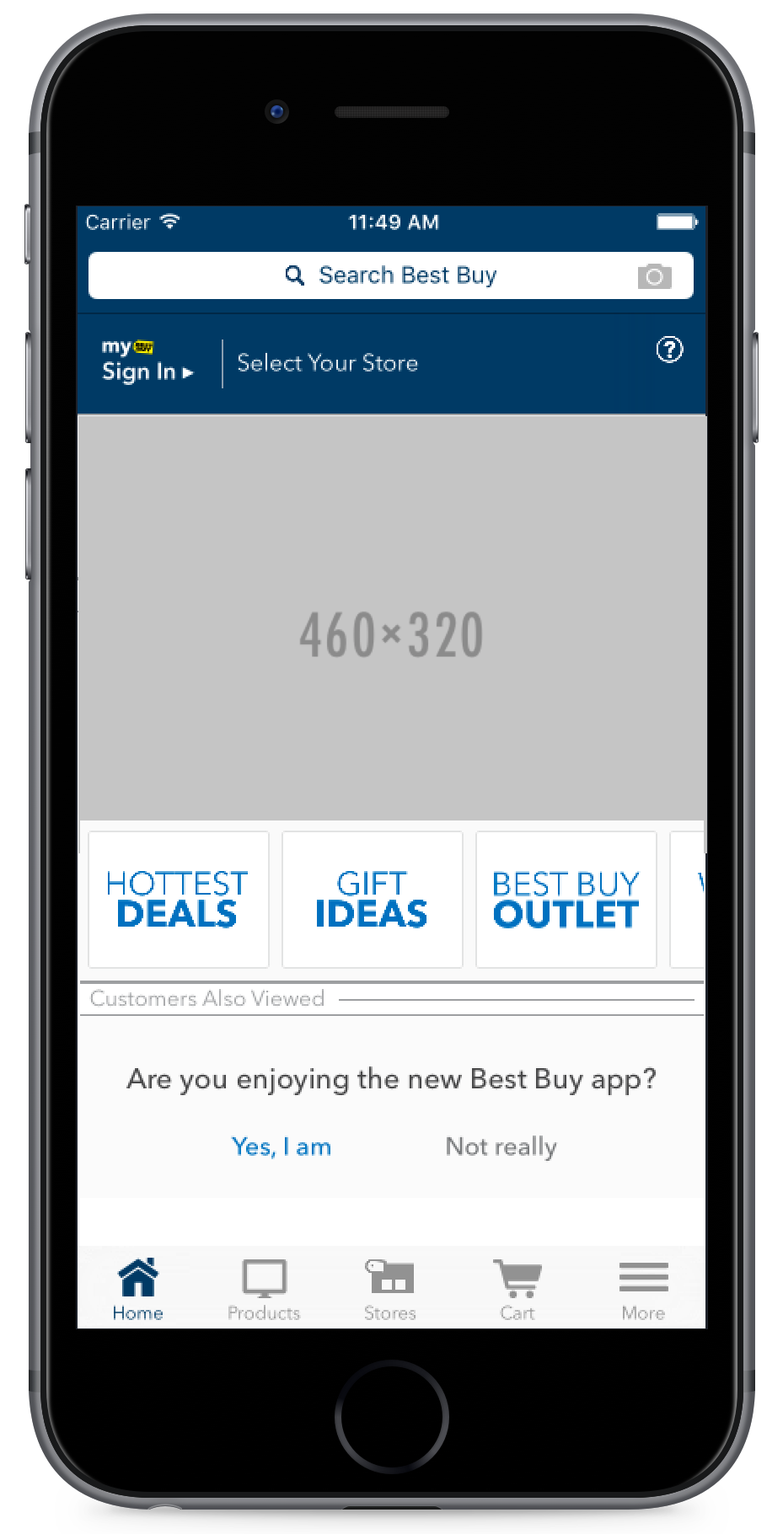
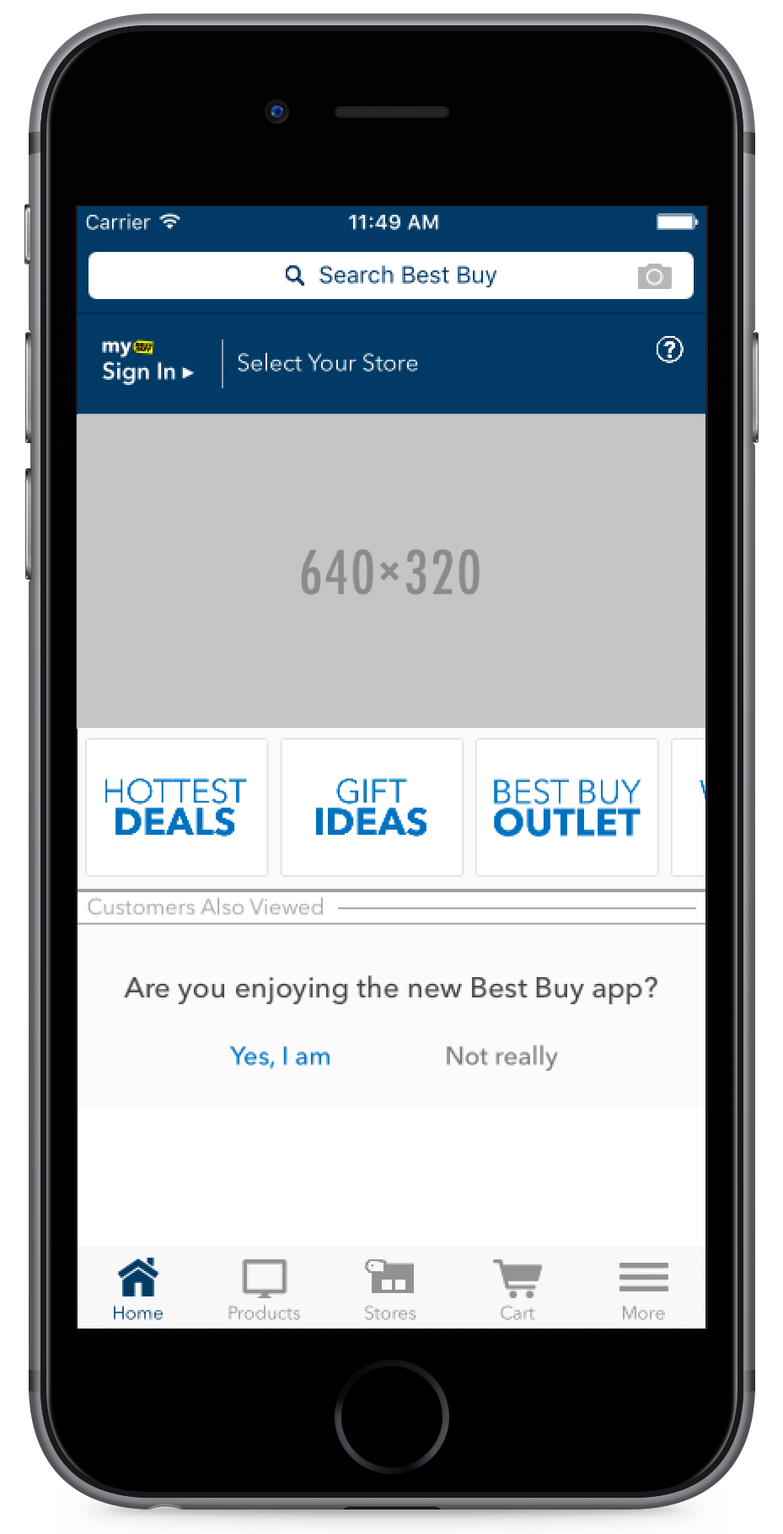
updates iPhone image

diff --git a/build/unbundled/service-worker.js b/build/unbundled/service-worker.js
@@ -29,7 +29,7 @@
 
 
 /* eslint-disable quotes, comma-spacing */
-var PrecacheConfig = [["/bower_components/app-datepicker/app-datepicker-animations.html","1f0abdd26daa9a31761a4dc297bc9325"],["/bower_components/app-datepicker/app-datepicker-dialog.html","1ee2b16d4229012a0d1ed814065157b1"],["/bower_components/app-datepicker/app-datepicker-icons.html","9cf0f2ef6c1266632fae718fede12ae3"],["/bower_components/app-datepicker/app-datepicker.html","61c16c798cd7ab5ba3ee446267fdfded"],["/bower_components/app-layout/app-drawer-layout/app-drawer-layout.html","a7474857c8dd25d6a9e5aabe763ec01f"],["/bower_components/app-layout/app-drawer/app-drawer.html","3949fa70e3797c54269a4abf7f361180"],["/bower_components/app-layout/app-header-layout/app-header-layout.html","180db0000b27f96610bf1a8de988a3ab"],["/bower_components/app-layout/app-header/app-header.html","e4a8a8d2985df42fad5c12ccd241e0c8"],["/bower_components/app-layout/app-scroll-effects/app-scroll-effects-behavior.html","6f59d3f5116eca983a1a375b77ad0fb5"],["/bower_components/app-layout/app-scroll-effects/app-scroll-effects.html","1eaa9e05144414be49e4ee23e16ceca2"],["/bower_components/app-layout/app-scroll-effects/effects/blend-background.html","4723ce7f6429640a812ad866ddddb719"],["/bower_components/app-layout/app-scroll-effects/effects/fade-background.html","3929482c600a21680def557965850501"],["/bower_components/app-layout/app-scroll-effects/effects/material.html","271fe6e745f1a9581a6e01cb3aadce21"],["/bower_components/app-layout/app-scroll-effects/effects/parallax-background.html","391d025dcffee3f042c9d2bdd83be377"],["/bower_components/app-layout/app-scroll-effects/effects/resize-snapped-title.html","fad90269cea2f83e1f4df1950bb2b053"],["/bower_components/app-layout/app-scroll-effects/effects/resize-title.html","1b99a57f871235783db6dfb812d7f3e0"],["/bower_components/app-layout/app-scroll-effects/effects/waterfall.html","6cbd757de769cd5af213aaebb8780745"],["/bower_components/app-layout/app-toolbar/app-toolbar.html","bde0a79d3265bef565ee86c699b6bbae"],["/bower_components/app-layout/helpers/helpers.html","95b52c0c05f77b65bc1b5dc0715d2495"],["/bower_components/app-route/app-location.html","52b3d8b5ecbb838b41bd9bd0ae556cca"],["/bower_components/app-route/app-route-converter-behavior.html","0e5b36ae9988a88bb30729fdb99a5d94"],["/bower_components/app-route/app-route.html","624ca199d36389f3db04597a593548ec"],["/bower_components/backend-template/backend-category.html","98cf887df73202e80d573f074ec5c1e7"],["/bower_components/backend-template/backend-page.html","aa3685500a50d5f2269d818ec6fe6033"],["/bower_components/backend-template/backend-template.html","e4eca2ee53db35d7e6ba6936be37f5f7"],["/bower_components/compound-timepicker/compound-timepicker-dialog.html","e85f672a8544da6e3858cca6cab9348e"],["/bower_components/compound-timepicker/compound-timepicker.html","4abe89b8e314ee09e70a4dc8e60d7976"],["/bower_components/file-upload/file-upload-icons.html","e40f58409458e58c234a617d623fcb19"],["/bower_components/file-upload/file-upload.html","c1941835c3e773fc02d50fe9a63644b8"],["/bower_components/font-roboto/roboto.html","09500fd5adfad056ff5aa05e2aae0ec5"],["/bower_components/iron-a11y-announcer/iron-a11y-announcer.html","a3bd031e39dde38cb8e619f670ee50f7"],["/bower_components/iron-a11y-keys-behavior/iron-a11y-keys-behavior.html","b9a8e766d0ab03a5d13e275754ec3d54"],["/bower_components/iron-behaviors/iron-button-state.html","6565a80d1af09299c1201f8286849c3b"],["/bower_components/iron-behaviors/iron-control-state.html","1c12ee539b1dbbd0957ae26b3549cc13"],["/bower_components/iron-collapse/iron-collapse.html","d545931441cea02435a0be9b5294d24a"],["/bower_components/iron-fit-behavior/iron-fit-behavior.html","8d3799ca2f619ed4f31261bb03284671"],["/bower_components/iron-flex-layout/classes/iron-flex-layout.html","97fcf4e52b1c44a78f360d436bd4e1e0"],["/bower_components/iron-flex-layout/classes/iron-shadow-flex-layout.html","8d36ab2f6e4b1d1373be99ac0f3a4980"],["/bower_components/iron-flex-layout/iron-flex-layout-classes.html","90471c0acb830c41b01e02a2507bed3c"],["/bower_components/iron-flex-layout/iron-flex-layout.html","3987521c615734e4fe403f9acecfea54"],["/bower_components/iron-form-element-behavior/iron-form-element-behavior.html","a64177311979fc6a6aae454cb85ea2be"],["/bower_components/iron-icon/iron-icon.html","5da6bac1d18d267691395cdc75820761"],["/bower_components/iron-icons/iron-icons.html","a900ff443dabefcbb77cf7ac7160ff24"],["/bower_components/iron-iconset-svg/iron-iconset-svg.html","8fb45b1b4668dae069f5efb5004c2af4"],["/bower_components/iron-image/iron-image.html","72175f3ce2bc8e6bf3436ab8749b470e"],["/bower_components/iron-input/iron-input.html","3e393eda6c241be2817ce0acc512bcf6"],["/bower_components/iron-list/iron-list.html","c73b17b7af787475d4e3f564e6aa789c"],["/bower_components/iron-location/iron-location.html","b999e8754a2e8fdde266884e47cefa04"],["/bower_components/iron-location/iron-query-params.html","065a00285a46f8483c74e363945499c9"],["/bower_components/iron-media-query/iron-media-query.html","7436f9608ebd2d31e4b346921651f84b"],["/bower_components/iron-menu-behavior/iron-menu-behavior.html","ebd9e4f4121fe7691f20f0656cb24e5d"],["/bower_components/iron-menu-behavior/iron-menubar-behavior.html","a0cc6674fc6d9d7ba0b68ff680b4e56b"],["/bower_components/iron-meta/iron-meta.html","dd4ef14e09c5771e70292d70963f6718"],["/bower_components/iron-overlay-behavior/iron-overlay-backdrop.html","a6568ac2408a26e2dd2098821adbbbfa"],["/bower_components/iron-overlay-behavior/iron-overlay-behavior.html","5fbe9a3df3528b2e36ad58f8586e7c69"],["/bower_components/iron-overlay-behavior/iron-overlay-manager.html","7c86727e4267f15e730526f318b40da1"],["/bower_components/iron-pages/iron-pages.html","5872a2ad58225c94b14ddea747f67cbd"],["/bower_components/iron-range-behavior/iron-range-behavior.html","34f5b83882b6b6c5cfad7543caab080e"],["/bower_components/iron-resizable-behavior/iron-resizable-behavior.html","e93449ccd4312e4e30060c87bd52ed25"],["/bower_components/iron-resizable/iron-resizable-behavior.html","e93449ccd4312e4e30060c87bd52ed25"],["/bower_components/iron-scroll-target-behavior/iron-scroll-target-behavior.html","0185cbe8d7139c9e92af3a9af67feb17"],["/bower_components/iron-selector/iron-multi-selectable.html","46d6620acd7bad986d81097d9ca91692"],["/bower_components/iron-selector/iron-selectable.html","65b04f3f5f1b551d91a82b36f916f6b6"],["/bower_components/iron-selector/iron-selection.html","83545b7d1eae4020594969e6b9790b65"],["/bower_components/iron-selector/iron-selector.html","4d2657550768bec0788eba5190cddc66"],["/bower_components/iron-swipeable-container/iron-swipeable-container.html","5452174bdb8145d92024a2e12dc01c37"],["/bower_components/iron-validatable-behavior/iron-validatable-behavior.html","02bf0434cc1a0d09e18413dea91dcea1"],["/bower_components/moment-element/moment-import.html","98829c155df5231fda830977c1cf7b66"],["/bower_components/moment/min/moment.min.js","9f556edfb6f51d57807c6ff4e07d4d78"],["/bower_components/neon-animation/animations/fade-in-animation.html","b814c818dbcffe2bb50563e1406497df"],["/bower_components/neon-animation/animations/fade-out-animation.html","44988226230af0e6d92f0988fc8688e2"],["/bower_components/neon-animation/animations/opaque-animation.html","8e2f63bbc648796f3ed96834a5553d07"],["/bower_components/neon-animation/animations/slide-down-animation.html","31286bfe0b2cb6f28ef5e1f9d181f641"],["/bower_components/neon-animation/animations/slide-from-bottom-animation.html","12eea18013bf5b89c642fde725469a62"],["/bower_components/neon-animation/animations/slide-from-left-animation.html","cb18058340412077b0b0a8a7228a79a6"],["/bower_components/neon-animation/animations/slide-from-right-animation.html","79f28e3d4580cef016e6ae8c63384e98"],["/bower_components/neon-animation/animations/slide-left-animation.html","a44c677c010daf7872b77f53bcd86e58"],["/bower_components/neon-animation/animations/slide-right-animation.html","b9908b67414ba0dfc7442eb1207d05fc"],["/bower_components/neon-animation/neon-animatable-behavior.html","270f52231303cae4cb8e3fadb5a805c1"],["/bower_components/neon-animation/neon-animatable.html","a0ca09f4fb19c4c83a2e501f666aa9b7"],["/bower_components/neon-animation/neon-animated-pages.html","8bb61cb8467f755163cec87e954425fc"],["/bower_components/neon-animation/neon-animation-behavior.html","eb1cdd9cd9d780a811fd25e882ba1f8e"],["/bower_components/neon-animation/neon-animation-runner-behavior.html","782cac67e6cb5661d36fb32d9129ff03"],["/bower_components/neon-animation/web-animations.html","b310811179297697d51eac3659df7776"],["/bower_components/neon-slideshow/neon-pages-shared-styles.html","8abae31651f17721ec357fd7cd4f24f7"],["/bower_components/neon-slideshow/neon-slideshow-pages-behavior.html","1d7d412e5edd90f9deea9f6f94a181f6"],["/bower_components/paper-behaviors/paper-button-behavior.html","edddd3f97cf3ea944f3a48b4154939e8"],["/bower_components/paper-behaviors/paper-inky-focus-behavior.html","51a1c5ccd2aae4c1a0258680dcb3e1ea"],["/bower_components/paper-behaviors/paper-ripple-behavior.html","b6ee8dd59ffb46ca57e81311abd2eca0"],["/bower_components/paper-bottom-sheet/paper-bottom-sheet-item.html","e711b25cef7a8c6c9cd3d3afa37b3aeb"],["/bower_components/paper-bottom-sheet/paper-bottom-sheet.html","eed367761b5bb706041166ccf244529f"],["/bower_components/paper-button/paper-button.html","3f061a077ee938fac479622156071296"],["/bower_components/paper-card/paper-card.html","c057c1a99e521f817eab9af733ce2471"],["/bower_components/paper-date-picker-item/paper-date-picker-behaviors.html","a8af435cf69d4eb08e461a0dfc9fa2e0"],["/bower_components/paper-date-picker-item/paper-date-picker-edit-dialog.html","a6ebb8f7032ebfbfdb3a6aaefd2fb8c5"],["/bower_components/paper-date-picker-item/paper-date-picker-item.html","28de117b275f571b648601bfe74924d2"],["/bower_components/paper-date-picker-item/paper-datetime-picker-item.html","b70431ed567daaf09d4e015965cc8dc5"],["/bower_components/paper-date-picker-item/paper-time-picker-edit-dialog.html","efee2f8dcc37736698905293ee9d22e3"],["/bower_components/paper-date-picker/paper-calendar.html","606e025081a64e1edaf7ab77a05cffe1"],["/bower_components/paper-date-picker/paper-date-picker-dialog-style.html","aae7be1be96eb1ca616491ad3a5fd759"],["/bower_components/paper-date-picker/paper-date-picker.html","3988a155ffb5ddb97d0acb11425eba7f"],["/bower_components/paper-dialog-behavior/paper-dialog-behavior.html","b9cf5384b29cd12a724965080916b6f1"],["/bower_components/paper-dialog-behavior/paper-dialog-shared-styles.html","8fb5282b6149bc429b6baef5c077a285"],["/bower_components/paper-dialog/paper-dialog.html","7a8d86ed89c215baf8cc42e4d7335271"],["/bower_components/paper-drawer-panel/paper-drawer-panel.html","b897a21291bab89dff00486eb4cc44f6"],["/bower_components/paper-header-panel/paper-header-panel.html","b883923e580ff87f152f354358fc324b"],["/bower_components/paper-icon-button/paper-icon-button.html","2a75de00f858ae1e894ab21344464787"],["/bower_components/paper-input/paper-input-addon-behavior.html","de7b482dc1fb01847efba9016db16206"],["/bower_components/paper-input/paper-input-behavior.html","3960579058d3ba0a74ae7b67b78f53c2"],["/bower_components/paper-input/paper-input-char-counter.html","94c2003f281325951e3bf5b927a326bb"],["/bower_components/paper-input/paper-input-container.html","e3c61b8a6e35b134c99c09381ef48067"],["/bower_components/paper-input/paper-input-error.html","b90f3a86d797f1bdbbb4d158aeae06ab"],["/bower_components/paper-input/paper-input.html","3385511052db3467ca6ec155faa619ad"],["/bower_components/paper-item/paper-icon-item.html","17d1540072712073af1a84ae9b0ba06a"],["/bower_components/paper-item/paper-item-behavior.html","82636a7562fd8b0be5b15646ee461588"],["/bower_components/paper-item/paper-item-body.html","8b91d21da1ac0ab23442d05b4e377286"],["/bower_components/paper-item/paper-item-shared-styles.html","31466267014182098267f1b9303f656e"],["/bower_components/paper-item/paper-item.html","e614731572c425b144aa8a9da24ee3ea"],["/bower_components/paper-material/paper-material-shared-styles.html","d0eeeb696e55702f3a38ef1ad0058f59"],["/bower_components/paper-material/paper-material.html","47301784c93c3d9989abfbab68ec9859"],["/bower_components/paper-menu/paper-menu-shared-styles.html","9b2ae6e8b26011a37194ea3b4bdd043d"],["/bower_components/paper-menu/paper-menu.html","5270d7b4b603d9fdfcfdb079c750a3cd"],["/bower_components/paper-menu/paper-submenu.html","e837f00972a52c4ecda76bcb62392ec7"],["/bower_components/paper-progress/paper-progress.html","5dd0b9f89efdfd4f3cce0a13bd67fe6f"],["/bower_components/paper-ripple/paper-ripple.html","e22bc21b61184cb28125d16f9d80fb59"],["/bower_components/paper-scroll-header-panel/paper-scroll-header-panel.html","24210b806838797844a91a0b83771bbe"],["/bower_components/paper-styles/classes/shadow.html","6b17a7d4dcc74249b7954d4c9d1d6bc4"],["/bower_components/paper-styles/color.html","430305db311431da78c0a6e1236f9ebe"],["/bower_components/paper-styles/default-theme.html","c910188e898624eb890898418de20ee0"],["/bower_components/paper-styles/paper-styles.html","3fd71f69f3adc823ef9c03611d296cfc"],["/bower_components/paper-styles/shadow.html","7fd97f2613eb356e1bb901e37c3e8980"],["/bower_components/paper-styles/typography.html","bdd7f31bb85f116ce97061c4135b74c9"],["/bower_components/paper-tabs/paper-tab.html","9a063ee5fdf20435ec7229056cdb27c6"],["/bower_components/paper-tabs/paper-tabs-icons.html","9fb57777c667562392afe684d85ddbe2"],["/bower_components/paper-tabs/paper-tabs.html","e0f46d0e6238334cc2d3da093e9672fc"],["/bower_components/paper-time-picker/paper-clock-selector.html","46cdc7df9c947486970452ba975d0a01"],["/bower_components/paper-time-picker/paper-time-picker-dialog-style.html","edb5821bf61ae671b9b7b92728dd63cc"],["/bower_components/paper-time-picker/paper-time-picker.html","b20135a5e6b6eecbb8c17b8e6ce401d7"],["/bower_components/paper-toast/paper-toast.html","f64d10724104f3751cae8b764aef56ff"],["/bower_components/paper-toolbar/paper-toolbar.html","ff99e4e6d522685e7e4d04f290e8ac9b"],["/bower_components/polymer/polymer-micro.html","7739e37db5581472b91925e5fa9bde55"],["/bower_components/polymer/polymer-mini.html","9e9dfb157eae29a59c98343288d4d120"],["/bower_components/polymer/polymer.html","2dce719d53b7ea549067d3d21a2b2c29"],["/bower_components/web-animations-js/web-animations-next-lite.min.js","04197e2ccec914fa460eef2ac140c853"],["/bower_components/webcomponentsjs/webcomponents-lite.min.js","f04ed23700daeb36f637bfe095960659"],["/index.html","4212c3bb78c86f5e84c468891aa1d737"],["/manifest.json","2eefc15db4b58758cddc0d666e27d399"],["/src/my-app.html","d6ec0ab348f03ee7f929e5ef11010c20"],["/src/my-icons.html","9a411b8d3e90395136d13d55e72fd88c"],["/src/my-view1.html","089a2a2879873136890869fe96826408"],["/src/my-view2.html","16f82b003eabd9c9424391b9d75d17f9"],["/src/my-view3.html","74bb1fd52df3785b6dd81a3c5343bb41"],["/src/my-view404.html","c0193cc44fd7bde68deda31d231845a8"],["/src/shared-styles.html","749d90961ca5e725941fc8e97ee10ce6"]];
+var PrecacheConfig = [["/bower_components/app-datepicker/app-datepicker-animations.html","1f0abdd26daa9a31761a4dc297bc9325"],["/bower_components/app-datepicker/app-datepicker-dialog.html","1ee2b16d4229012a0d1ed814065157b1"],["/bower_components/app-datepicker/app-datepicker-icons.html","9cf0f2ef6c1266632fae718fede12ae3"],["/bower_components/app-datepicker/app-datepicker.html","61c16c798cd7ab5ba3ee446267fdfded"],["/bower_components/app-layout/app-drawer-layout/app-drawer-layout.html","a7474857c8dd25d6a9e5aabe763ec01f"],["/bower_components/app-layout/app-drawer/app-drawer.html","3949fa70e3797c54269a4abf7f361180"],["/bower_components/app-layout/app-header-layout/app-header-layout.html","180db0000b27f96610bf1a8de988a3ab"],["/bower_components/app-layout/app-header/app-header.html","e4a8a8d2985df42fad5c12ccd241e0c8"],["/bower_components/app-layout/app-scroll-effects/app-scroll-effects-behavior.html","6f59d3f5116eca983a1a375b77ad0fb5"],["/bower_components/app-layout/app-scroll-effects/app-scroll-effects.html","1eaa9e05144414be49e4ee23e16ceca2"],["/bower_components/app-layout/app-scroll-effects/effects/blend-background.html","4723ce7f6429640a812ad866ddddb719"],["/bower_components/app-layout/app-scroll-effects/effects/fade-background.html","3929482c600a21680def557965850501"],["/bower_components/app-layout/app-scroll-effects/effects/material.html","271fe6e745f1a9581a6e01cb3aadce21"],["/bower_components/app-layout/app-scroll-effects/effects/parallax-background.html","391d025dcffee3f042c9d2bdd83be377"],["/bower_components/app-layout/app-scroll-effects/effects/resize-snapped-title.html","fad90269cea2f83e1f4df1950bb2b053"],["/bower_components/app-layout/app-scroll-effects/effects/resize-title.html","1b99a57f871235783db6dfb812d7f3e0"],["/bower_components/app-layout/app-scroll-effects/effects/waterfall.html","6cbd757de769cd5af213aaebb8780745"],["/bower_components/app-layout/app-toolbar/app-toolbar.html","bde0a79d3265bef565ee86c699b6bbae"],["/bower_components/app-layout/helpers/helpers.html","95b52c0c05f77b65bc1b5dc0715d2495"],["/bower_components/app-route/app-location.html","52b3d8b5ecbb838b41bd9bd0ae556cca"],["/bower_components/app-route/app-route-converter-behavior.html","0e5b36ae9988a88bb30729fdb99a5d94"],["/bower_components/app-route/app-route.html","624ca199d36389f3db04597a593548ec"],["/bower_components/backend-template/backend-category.html","98cf887df73202e80d573f074ec5c1e7"],["/bower_components/backend-template/backend-page.html","aa3685500a50d5f2269d818ec6fe6033"],["/bower_components/backend-template/backend-template.html","e4eca2ee53db35d7e6ba6936be37f5f7"],["/bower_components/compound-timepicker/compound-timepicker-dialog.html","e85f672a8544da6e3858cca6cab9348e"],["/bower_components/compound-timepicker/compound-timepicker.html","4abe89b8e314ee09e70a4dc8e60d7976"],["/bower_components/file-upload/file-upload-icons.html","e40f58409458e58c234a617d623fcb19"],["/bower_components/file-upload/file-upload.html","c1941835c3e773fc02d50fe9a63644b8"],["/bower_components/font-roboto/roboto.html","09500fd5adfad056ff5aa05e2aae0ec5"],["/bower_components/iron-a11y-announcer/iron-a11y-announcer.html","a3bd031e39dde38cb8e619f670ee50f7"],["/bower_components/iron-a11y-keys-behavior/iron-a11y-keys-behavior.html","b9a8e766d0ab03a5d13e275754ec3d54"],["/bower_components/iron-behaviors/iron-button-state.html","6565a80d1af09299c1201f8286849c3b"],["/bower_components/iron-behaviors/iron-control-state.html","1c12ee539b1dbbd0957ae26b3549cc13"],["/bower_components/iron-collapse/iron-collapse.html","d545931441cea02435a0be9b5294d24a"],["/bower_components/iron-fit-behavior/iron-fit-behavior.html","8d3799ca2f619ed4f31261bb03284671"],["/bower_components/iron-flex-layout/classes/iron-flex-layout.html","97fcf4e52b1c44a78f360d436bd4e1e0"],["/bower_components/iron-flex-layout/classes/iron-shadow-flex-layout.html","8d36ab2f6e4b1d1373be99ac0f3a4980"],["/bower_components/iron-flex-layout/iron-flex-layout-classes.html","90471c0acb830c41b01e02a2507bed3c"],["/bower_components/iron-flex-layout/iron-flex-layout.html","3987521c615734e4fe403f9acecfea54"],["/bower_components/iron-form-element-behavior/iron-form-element-behavior.html","a64177311979fc6a6aae454cb85ea2be"],["/bower_components/iron-icon/iron-icon.html","5da6bac1d18d267691395cdc75820761"],["/bower_components/iron-icons/iron-icons.html","a900ff443dabefcbb77cf7ac7160ff24"],["/bower_components/iron-iconset-svg/iron-iconset-svg.html","8fb45b1b4668dae069f5efb5004c2af4"],["/bower_components/iron-image/iron-image.html","72175f3ce2bc8e6bf3436ab8749b470e"],["/bower_components/iron-input/iron-input.html","3e393eda6c241be2817ce0acc512bcf6"],["/bower_components/iron-list/iron-list.html","c73b17b7af787475d4e3f564e6aa789c"],["/bower_components/iron-location/iron-location.html","b999e8754a2e8fdde266884e47cefa04"],["/bower_components/iron-location/iron-query-params.html","065a00285a46f8483c74e363945499c9"],["/bower_components/iron-media-query/iron-media-query.html","7436f9608ebd2d31e4b346921651f84b"],["/bower_components/iron-menu-behavior/iron-menu-behavior.html","ebd9e4f4121fe7691f20f0656cb24e5d"],["/bower_components/iron-menu-behavior/iron-menubar-behavior.html","a0cc6674fc6d9d7ba0b68ff680b4e56b"],["/bower_components/iron-meta/iron-meta.html","dd4ef14e09c5771e70292d70963f6718"],["/bower_components/iron-overlay-behavior/iron-overlay-backdrop.html","a6568ac2408a26e2dd2098821adbbbfa"],["/bower_components/iron-overlay-behavior/iron-overlay-behavior.html","5fbe9a3df3528b2e36ad58f8586e7c69"],["/bower_components/iron-overlay-behavior/iron-overlay-manager.html","7c86727e4267f15e730526f318b40da1"],["/bower_components/iron-pages/iron-pages.html","5872a2ad58225c94b14ddea747f67cbd"],["/bower_components/iron-range-behavior/iron-range-behavior.html","34f5b83882b6b6c5cfad7543caab080e"],["/bower_components/iron-resizable-behavior/iron-resizable-behavior.html","e93449ccd4312e4e30060c87bd52ed25"],["/bower_components/iron-resizable/iron-resizable-behavior.html","e93449ccd4312e4e30060c87bd52ed25"],["/bower_components/iron-scroll-target-behavior/iron-scroll-target-behavior.html","0185cbe8d7139c9e92af3a9af67feb17"],["/bower_components/iron-selector/iron-multi-selectable.html","46d6620acd7bad986d81097d9ca91692"],["/bower_components/iron-selector/iron-selectable.html","65b04f3f5f1b551d91a82b36f916f6b6"],["/bower_components/iron-selector/iron-selection.html","83545b7d1eae4020594969e6b9790b65"],["/bower_components/iron-selector/iron-selector.html","4d2657550768bec0788eba5190cddc66"],["/bower_components/iron-swipeable-container/iron-swipeable-container.html","5452174bdb8145d92024a2e12dc01c37"],["/bower_components/iron-validatable-behavior/iron-validatable-behavior.html","02bf0434cc1a0d09e18413dea91dcea1"],["/bower_components/moment-element/moment-import.html","98829c155df5231fda830977c1cf7b66"],["/bower_components/moment/min/moment.min.js","9f556edfb6f51d57807c6ff4e07d4d78"],["/bower_components/neon-animation/animations/fade-in-animation.html","b814c818dbcffe2bb50563e1406497df"],["/bower_components/neon-animation/animations/fade-out-animation.html","44988226230af0e6d92f0988fc8688e2"],["/bower_components/neon-animation/animations/opaque-animation.html","8e2f63bbc648796f3ed96834a5553d07"],["/bower_components/neon-animation/animations/slide-down-animation.html","31286bfe0b2cb6f28ef5e1f9d181f641"],["/bower_components/neon-animation/animations/slide-from-bottom-animation.html","12eea18013bf5b89c642fde725469a62"],["/bower_components/neon-animation/animations/slide-from-left-animation.html","cb18058340412077b0b0a8a7228a79a6"],["/bower_components/neon-animation/animations/slide-from-right-animation.html","79f28e3d4580cef016e6ae8c63384e98"],["/bower_components/neon-animation/animations/slide-left-animation.html","a44c677c010daf7872b77f53bcd86e58"],["/bower_components/neon-animation/animations/slide-right-animation.html","b9908b67414ba0dfc7442eb1207d05fc"],["/bower_components/neon-animation/neon-animatable-behavior.html","270f52231303cae4cb8e3fadb5a805c1"],["/bower_components/neon-animation/neon-animatable.html","a0ca09f4fb19c4c83a2e501f666aa9b7"],["/bower_components/neon-animation/neon-animated-pages.html","8bb61cb8467f755163cec87e954425fc"],["/bower_components/neon-animation/neon-animation-behavior.html","eb1cdd9cd9d780a811fd25e882ba1f8e"],["/bower_components/neon-animation/neon-animation-runner-behavior.html","782cac67e6cb5661d36fb32d9129ff03"],["/bower_components/neon-animation/web-animations.html","b310811179297697d51eac3659df7776"],["/bower_components/neon-slideshow/neon-pages-shared-styles.html","8abae31651f17721ec357fd7cd4f24f7"],["/bower_components/neon-slideshow/neon-slideshow-pages-behavior.html","1d7d412e5edd90f9deea9f6f94a181f6"],["/bower_components/paper-behaviors/paper-button-behavior.html","edddd3f97cf3ea944f3a48b4154939e8"],["/bower_components/paper-behaviors/paper-inky-focus-behavior.html","51a1c5ccd2aae4c1a0258680dcb3e1ea"],["/bower_components/paper-behaviors/paper-ripple-behavior.html","b6ee8dd59ffb46ca57e81311abd2eca0"],["/bower_components/paper-bottom-sheet/paper-bottom-sheet-item.html","e711b25cef7a8c6c9cd3d3afa37b3aeb"],["/bower_components/paper-bottom-sheet/paper-bottom-sheet.html","eed367761b5bb706041166ccf244529f"],["/bower_components/paper-button/paper-button.html","3f061a077ee938fac479622156071296"],["/bower_components/paper-card/paper-card.html","c057c1a99e521f817eab9af733ce2471"],["/bower_components/paper-date-picker-item/paper-date-picker-behaviors.html","a8af435cf69d4eb08e461a0dfc9fa2e0"],["/bower_components/paper-date-picker-item/paper-date-picker-edit-dialog.html","a6ebb8f7032ebfbfdb3a6aaefd2fb8c5"],["/bower_components/paper-date-picker-item/paper-date-picker-item.html","28de117b275f571b648601bfe74924d2"],["/bower_components/paper-date-picker-item/paper-datetime-picker-item.html","b70431ed567daaf09d4e015965cc8dc5"],["/bower_components/paper-date-picker-item/paper-time-picker-edit-dialog.html","efee2f8dcc37736698905293ee9d22e3"],["/bower_components/paper-date-picker/paper-calendar.html","606e025081a64e1edaf7ab77a05cffe1"],["/bower_components/paper-date-picker/paper-date-picker-dialog-style.html","aae7be1be96eb1ca616491ad3a5fd759"],["/bower_components/paper-date-picker/paper-date-picker.html","3988a155ffb5ddb97d0acb11425eba7f"],["/bower_components/paper-dialog-behavior/paper-dialog-behavior.html","b9cf5384b29cd12a724965080916b6f1"],["/bower_components/paper-dialog-behavior/paper-dialog-shared-styles.html","8fb5282b6149bc429b6baef5c077a285"],["/bower_components/paper-dialog/paper-dialog.html","7a8d86ed89c215baf8cc42e4d7335271"],["/bower_components/paper-drawer-panel/paper-drawer-panel.html","b897a21291bab89dff00486eb4cc44f6"],["/bower_components/paper-header-panel/paper-header-panel.html","b883923e580ff87f152f354358fc324b"],["/bower_components/paper-icon-button/paper-icon-button.html","2a75de00f858ae1e894ab21344464787"],["/bower_components/paper-input/paper-input-addon-behavior.html","de7b482dc1fb01847efba9016db16206"],["/bower_components/paper-input/paper-input-behavior.html","3960579058d3ba0a74ae7b67b78f53c2"],["/bower_components/paper-input/paper-input-char-counter.html","94c2003f281325951e3bf5b927a326bb"],["/bower_components/paper-input/paper-input-container.html","e3c61b8a6e35b134c99c09381ef48067"],["/bower_components/paper-input/paper-input-error.html","b90f3a86d797f1bdbbb4d158aeae06ab"],["/bower_components/paper-input/paper-input.html","3385511052db3467ca6ec155faa619ad"],["/bower_components/paper-item/paper-icon-item.html","17d1540072712073af1a84ae9b0ba06a"],["/bower_components/paper-item/paper-item-behavior.html","82636a7562fd8b0be5b15646ee461588"],["/bower_components/paper-item/paper-item-body.html","8b91d21da1ac0ab23442d05b4e377286"],["/bower_components/paper-item/paper-item-shared-styles.html","31466267014182098267f1b9303f656e"],["/bower_components/paper-item/paper-item.html","e614731572c425b144aa8a9da24ee3ea"],["/bower_components/paper-material/paper-material-shared-styles.html","d0eeeb696e55702f3a38ef1ad0058f59"],["/bower_components/paper-material/paper-material.html","47301784c93c3d9989abfbab68ec9859"],["/bower_components/paper-menu/paper-menu-shared-styles.html","9b2ae6e8b26011a37194ea3b4bdd043d"],["/bower_components/paper-menu/paper-menu.html","5270d7b4b603d9fdfcfdb079c750a3cd"],["/bower_components/paper-menu/paper-submenu.html","e837f00972a52c4ecda76bcb62392ec7"],["/bower_components/paper-progress/paper-progress.html","5dd0b9f89efdfd4f3cce0a13bd67fe6f"],["/bower_components/paper-ripple/paper-ripple.html","e22bc21b61184cb28125d16f9d80fb59"],["/bower_components/paper-scroll-header-panel/paper-scroll-header-panel.html","24210b806838797844a91a0b83771bbe"],["/bower_components/paper-styles/classes/shadow.html","6b17a7d4dcc74249b7954d4c9d1d6bc4"],["/bower_components/paper-styles/color.html","430305db311431da78c0a6e1236f9ebe"],["/bower_components/paper-styles/default-theme.html","c910188e898624eb890898418de20ee0"],["/bower_components/paper-styles/paper-styles.html","3fd71f69f3adc823ef9c03611d296cfc"],["/bower_components/paper-styles/shadow.html","7fd97f2613eb356e1bb901e37c3e8980"],["/bower_components/paper-styles/typography.html","bdd7f31bb85f116ce97061c4135b74c9"],["/bower_components/paper-tabs/paper-tab.html","9a063ee5fdf20435ec7229056cdb27c6"],["/bower_components/paper-tabs/paper-tabs-icons.html","9fb57777c667562392afe684d85ddbe2"],["/bower_components/paper-tabs/paper-tabs.html","e0f46d0e6238334cc2d3da093e9672fc"],["/bower_components/paper-time-picker/paper-clock-selector.html","46cdc7df9c947486970452ba975d0a01"],["/bower_components/paper-time-picker/paper-time-picker-dialog-style.html","edb5821bf61ae671b9b7b92728dd63cc"],["/bower_components/paper-time-picker/paper-time-picker.html","b20135a5e6b6eecbb8c17b8e6ce401d7"],["/bower_components/paper-toast/paper-toast.html","f64d10724104f3751cae8b764aef56ff"],["/bower_components/paper-toolbar/paper-toolbar.html","ff99e4e6d522685e7e4d04f290e8ac9b"],["/bower_components/polymer/polymer-micro.html","7739e37db5581472b91925e5fa9bde55"],["/bower_components/polymer/polymer-mini.html","9e9dfb157eae29a59c98343288d4d120"],["/bower_components/polymer/polymer.html","2dce719d53b7ea549067d3d21a2b2c29"],["/bower_components/web-animations-js/web-animations-next-lite.min.js","04197e2ccec914fa460eef2ac140c853"],["/bower_components/webcomponentsjs/webcomponents-lite.min.js","f04ed23700daeb36f637bfe095960659"],["/index.html","4212c3bb78c86f5e84c468891aa1d737"],["/manifest.json","2eefc15db4b58758cddc0d666e27d399"],["/src/my-app.html","b89ea277c41f20c7b2fd926e13a21083"],["/src/my-icons.html","9a411b8d3e90395136d13d55e72fd88c"],["/src/my-view1.html","089a2a2879873136890869fe96826408"],["/src/my-view2.html","16f82b003eabd9c9424391b9d75d17f9"],["/src/my-view3.html","74bb1fd52df3785b6dd81a3c5343bb41"],["/src/my-view404.html","c0193cc44fd7bde68deda31d231845a8"],["/src/shared-styles.html","749d90961ca5e725941fc8e97ee10ce6"]];
 /* eslint-enable quotes, comma-spacing */
 var CacheNamePrefix = 'sw-precache-v1--' + (self.registration ? self.registration.scope : '') + '-';
 

diff --git a/build/bundled/src/my-app.html b/build/bundled/src/my-app.html
@@ -7122,11 +7122,11 @@ e._bubble()}function Bn(e,t){return $n(this,e,t,1)}function Jn(e,t){return $n(th
             <iron-image style="width:375px; height:667px; background-color: white" sizing="contain" preload="" fade="" src="../images/iphone.png"></iron-image>
 
               <iron-swipeable-container>
-                <iron-image style="width:274px; height:176px; background-color: lightgray" class="swipe" sizing="cover" preload="" fade="" src="[[imgSrc]]"></iron-image>
+                <iron-image style="width:274px; height:136px; background-color: lightgray" class="swipe" sizing="cover" preload="" fade="" src="[[imgSrc]]"></iron-image>
 
-                <iron-image style="width:274px; height:176px; background-color: lightgray" class="swipe" sizing="cover" preload="" fade="" src="[[imgSrc]]"></iron-image>
+                <iron-image style="width:274px; height:136px; background-color: lightgray" class="swipe" sizing="cover" preload="" fade="" src="[[imgSrc]]"></iron-image>
 
-                <iron-image style="width:274px; height:176px; background-color: lightgray" class="swipe" sizing="cover" preload="" fade="" src="[[imgSrc]]"></iron-image>
+                <iron-image style="width:274px; height:136px; background-color: lightgray" class="swipe" sizing="cover" preload="" fade="" src="[[imgSrc]]"></iron-image>
 
               </iron-swipeable-container>
             <paper-input label="Image link URL">
@@ -7147,6 +7147,6 @@ e._bubble()}function Bn(e,t){return $n(this,e,t,1)}function Jn(e,t){return $n(th
     </paper-toast>
   </template>
 
-  <script>Polymer({is:"my-app",openSheet:function(){this.$.sheet.open()},properties:{imgSrc:{type:String,notify:!0,value:"http://lorempixel.com/320/160"},planDate:{type:Object,value:function(){return{startDate:"2016/12/01",endDate:"2016/12/31"}},observer:"_planDateChanged"}},openStartDate:function(){this.$.startDatePicker.open()},openStartTime:function(){this.$.startTimePicker.open()},submit:function(){console.log("submit!"),this.$.mainToast.open()},urlInputChange:function(){console.log("got here"),console.log(this.$.imgUrl.value),this.imgSrc=this.$.imgUrl.value},closeToast:function(){this.$.mainToast.close()},_planDateChanged:function(t,e){console.log("plan-date-changed:",t,e)}});</script>
+  <script>Polymer({is:"my-app",openSheet:function(){this.$.sheet.open()},properties:{imgSrc:{type:String,notify:!0,value:"http://lorempixel.com/640/320"},planDate:{type:Object,value:function(){return{startDate:"2016/12/01",endDate:"2016/12/31"}},observer:"_planDateChanged"}},openStartDate:function(){this.$.startDatePicker.open()},openStartTime:function(){this.$.startTimePicker.open()},submit:function(){console.log("submit!"),this.$.mainToast.open()},urlInputChange:function(){console.log("got here"),console.log(this.$.imgUrl.value),this.imgSrc=this.$.imgUrl.value},closeToast:function(){this.$.mainToast.close()},_planDateChanged:function(t,e){console.log("plan-date-changed:",t,e)}});</script>
 </dom-module>
 </body></html>

diff --git a/build/unbundled/src/my-app.html b/build/unbundled/src/my-app.html
@@ -121,11 +121,11 @@
             <iron-image style="width:375px; height:667px; background-color: white" sizing="contain" preload="" fade="" src="../images/iphone.png"></iron-image>
 
               <iron-swipeable-container>
-                <iron-image style="width:274px; height:176px; background-color: lightgray" class="swipe" sizing="cover" preload="" fade="" src="[[imgSrc]]"></iron-image>
+                <iron-image style="width:274px; height:136px; background-color: lightgray" class="swipe" sizing="cover" preload="" fade="" src="[[imgSrc]]"></iron-image>
 
-                <iron-image style="width:274px; height:176px; background-color: lightgray" class="swipe" sizing="cover" preload="" fade="" src="[[imgSrc]]"></iron-image>
+                <iron-image style="width:274px; height:136px; background-color: lightgray" class="swipe" sizing="cover" preload="" fade="" src="[[imgSrc]]"></iron-image>
 
-                <iron-image style="width:274px; height:176px; background-color: lightgray" class="swipe" sizing="cover" preload="" fade="" src="[[imgSrc]]"></iron-image>
+                <iron-image style="width:274px; height:136px; background-color: lightgray" class="swipe" sizing="cover" preload="" fade="" src="[[imgSrc]]"></iron-image>
 
               </iron-swipeable-container>
             <paper-input label="Image link URL">
@@ -146,6 +146,6 @@
     </paper-toast>
   </template>
 
-  <script>Polymer({is:"my-app",openSheet:function(){this.$.sheet.open()},properties:{imgSrc:{type:String,notify:!0,value:"http://lorempixel.com/320/160"},planDate:{type:Object,value:function(){return{startDate:"2016/12/01",endDate:"2016/12/31"}},observer:"_planDateChanged"}},openStartDate:function(){this.$.startDatePicker.open()},openStartTime:function(){this.$.startTimePicker.open()},submit:function(){console.log("submit!"),this.$.mainToast.open()},urlInputChange:function(){console.log("got here"),console.log(this.$.imgUrl.value),this.imgSrc=this.$.imgUrl.value},closeToast:function(){this.$.mainToast.close()},_planDateChanged:function(t,e){console.log("plan-date-changed:",t,e)}});</script>
+  <script>Polymer({is:"my-app",openSheet:function(){this.$.sheet.open()},properties:{imgSrc:{type:String,notify:!0,value:"http://lorempixel.com/640/320"},planDate:{type:Object,value:function(){return{startDate:"2016/12/01",endDate:"2016/12/31"}},observer:"_planDateChanged"}},openStartDate:function(){this.$.startDatePicker.open()},openStartTime:function(){this.$.startTimePicker.open()},submit:function(){console.log("submit!"),this.$.mainToast.open()},urlInputChange:function(){console.log("got here"),console.log(this.$.imgUrl.value),this.imgSrc=this.$.imgUrl.value},closeToast:function(){this.$.mainToast.close()},_planDateChanged:function(t,e){console.log("plan-date-changed:",t,e)}});</script>
 </dom-module>
 </body></html>

diff --git a/src/my-app.html b/src/my-app.html
@@ -133,13 +133,13 @@ subject to an additional IP rights grant found at http://polymer.github.io/PATEN
                         sizing="contain" preload fade src="../images/iphone.png"></iron-image>
 
               <iron-swipeable-container>
-                <iron-image style="width:274px; height:176px; background-color: lightgray" class="swipe"
+                <iron-image style="width:274px; height:136px; background-color: lightgray" class="swipe"
                             sizing="cover" preload fade src="[[imgSrc]]"></iron-image>
 
-                <iron-image style="width:274px; height:176px; background-color: lightgray" class="swipe"
+                <iron-image style="width:274px; height:136px; background-color: lightgray" class="swipe"
                             sizing="cover" preload fade src="[[imgSrc]]"></iron-image>
 
-                <iron-image style="width:274px; height:176px; background-color: lightgray" class="swipe"
+                <iron-image style="width:274px; height:136px; background-color: lightgray" class="swipe"
                             sizing="cover" preload fade src="[[imgSrc]]"></iron-image>
 
               </iron-swipeable-container>
@@ -174,7 +174,7 @@ subject to an additional IP rights grant found at http://polymer.github.io/PATEN
         imgSrc: {
           type: String,
           notify: true,
-          value: 'http://lorempixel.com/320/160'
+          value: 'http://lorempixel.com/640/320'
         },
 
         planDate: {

diff --git a/build/bundled/service-worker.js b/build/bundled/service-worker.js
@@ -29,7 +29,7 @@
 
 
 /* eslint-disable quotes, comma-spacing */
-var PrecacheConfig = [["/bower_components/webcomponentsjs/webcomponents-lite.min.js","f04ed23700daeb36f637bfe095960659"],["/index.html","4212c3bb78c86f5e84c468891aa1d737"],["/manifest.json","2eefc15db4b58758cddc0d666e27d399"],["/src/my-app.html","065e5f1548ac72e7eb5ffcdcdf4f22ed"],["/src/my-view1.html","a76895a40e2acc8733f47d142e388751"],["/src/my-view2.html","7e00f1613408e109e6d26853846c8467"],["/src/my-view3.html","1971572d82bd5c7e058dce75bdd068df"],["/src/my-view404.html","858fecebfa5de274e8d3f7ba905d599e"]];
+var PrecacheConfig = [["/bower_components/webcomponentsjs/webcomponents-lite.min.js","f04ed23700daeb36f637bfe095960659"],["/index.html","4212c3bb78c86f5e84c468891aa1d737"],["/manifest.json","2eefc15db4b58758cddc0d666e27d399"],["/src/my-app.html","3053bc6cce4421293cbd026ac67b8e2b"],["/src/my-view1.html","a76895a40e2acc8733f47d142e388751"],["/src/my-view2.html","7e00f1613408e109e6d26853846c8467"],["/src/my-view3.html","1971572d82bd5c7e058dce75bdd068df"],["/src/my-view404.html","858fecebfa5de274e8d3f7ba905d599e"]];
 /* eslint-enable quotes, comma-spacing */
 var CacheNamePrefix = 'sw-precache-v1--' + (self.registration ? self.registration.scope : '') + '-';
 
